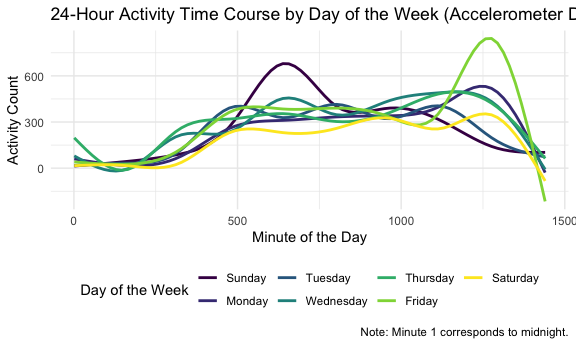
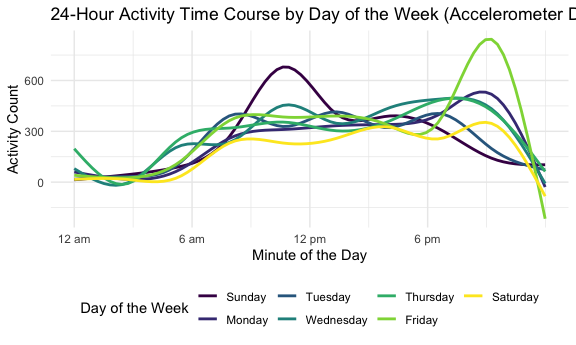
Problem 2 - added tick marks to x axis of plot

diff --git a/p8105_hw3_fde2103.md b/p8105_hw3_fde2103.md
@@ -227,8 +227,11 @@ accel %>%
     title = "24-Hour Activity Time Course by Day of the Week (Accelerometer Data)",
     x = "Minute of the Day",
     y = "Activity Count",
-    color = "Day of the Week",
-    caption = "Note: Minute 1 corresponds to midnight."
+    color = "Day of the Week"
+  ) +
+  scale_x_continuous(
+    breaks = c(1, 361, 721, 1081),
+    labels = c("12 am", "6 am", "12 pm", "6 pm")
   )
 ```
 
